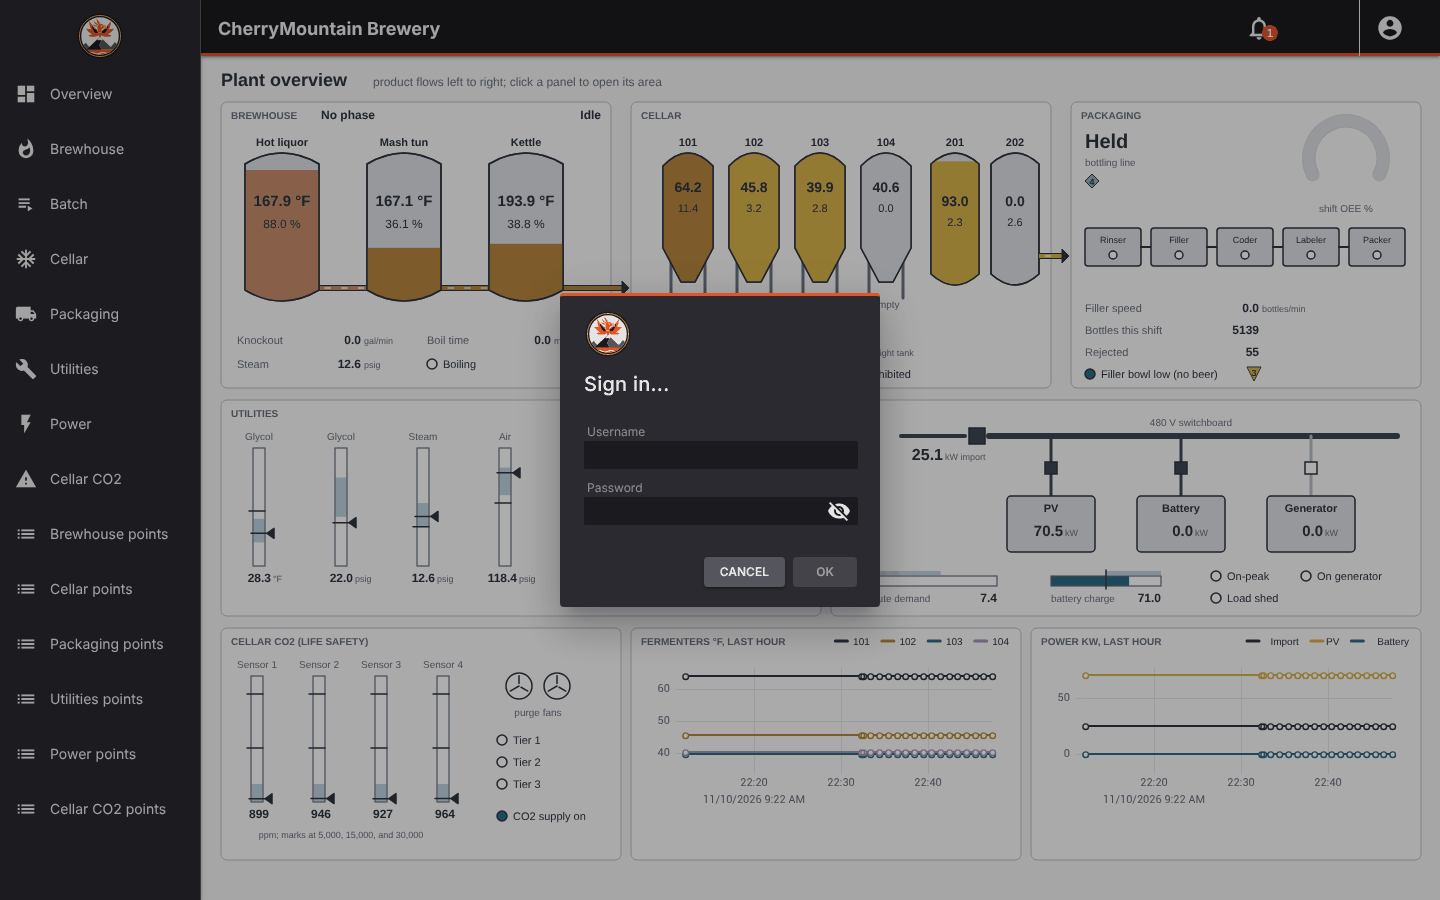
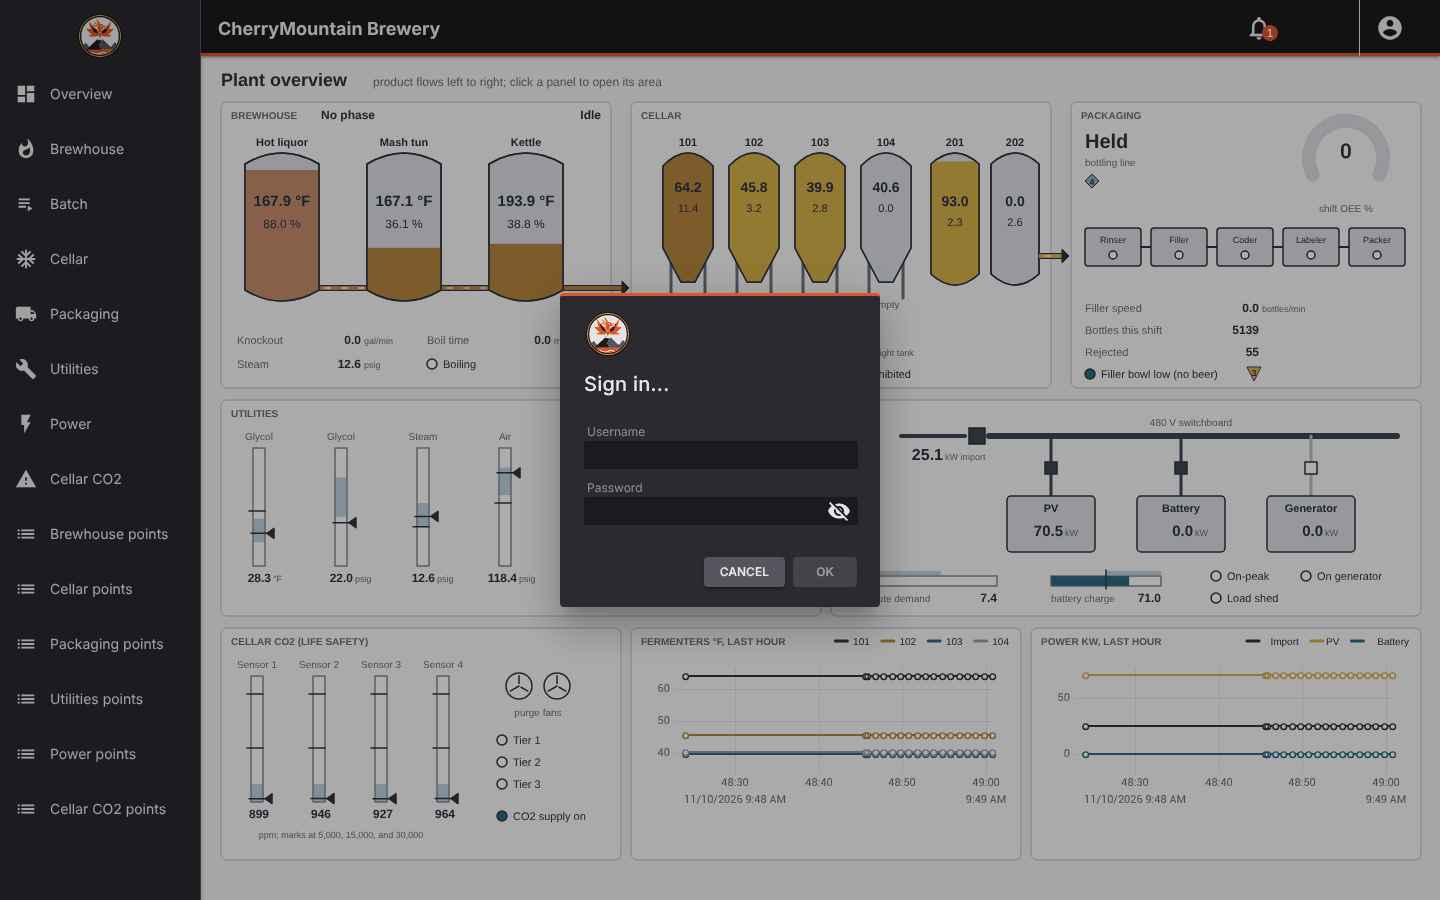
docs(cherrymountain): retake the FUXA pictures with the OEE dial number
The OEE dial on the Overview and Packaging screens now shows its number, and
the Power screen draws the ATS flag once, so the FUXA and HMI pictures are
retaken with capture_all.sh. The captions read the dial's value off the
pictures (0 when the line is Held, 99 when it runs) and the brew captions give
the phase states the new pictures show.

diff --git a/cherrymountain-brewery/README.md b/cherrymountain-brewery/README.md
@@ -565,10 +565,10 @@ brewhouse vessels, the four fermenters and two bright tanks, and the bottling li
 below are the utilities on scales, the power one-line, the cellar's CO₂ sensors, and
 two trends. The values come from the offline simulation. The brewhouse is idle (the
 phase bar's "No phase" is PLC state, which reads 0). The bottling line is Held with an
-empty OEE arc, because BBT-202 is empty (0.0 %): the filler's low-bowl lamp is lit,
+shift OEE of 0, because BBT-202 is empty (0.0 %): the filler's low-bowl lamp is lit,
 the yellow flag beside it is the alarm the bell counts, and the line state, bottle
 counts, and OEE are staged from the machines by the rules of `plc-packaging`. The
-OEE dial draws an arc and no number.
+OEE dial reads 0 with an empty arc.
 
 ![The Brewhouse screen](docs/examples/fuxa-scada-brewhouse.png)
 
@@ -591,7 +591,7 @@ up. "CIP permitted" is lit, which the capture stages from the transfer pump bein
 ![The Packaging screen](docs/examples/fuxa-scada-packaging.png)
 
 The **Packaging** screen at 08:00, with the line running (served over S7 from the
-packaging federate). The line is Execute, and the OEE arc is filled to about 99 %: the
+packaging federate). The line is Execute, and the OEE dial reads 99 and its arc is nearly full: the
 filler runs at 30.0 of 30 bottles/min and 28 of 2,894 bottles are rejected. Each machine
 shows its state, speed, counts, and jam lamp, and the backed-up eyes of conveyors 1
 and 3 are lit. The keg line is Execute, with the wash water at 160 °F and its heater on. The
@@ -649,7 +649,7 @@ The brewhouse station: the range's `cm-kiosk` script ran Chromium in kiosk mode 
 1440x900 display, opened the Brewhouse screen, and signed in as `operator` by itself
 (the name is beside the account icon). The batch engine was brewing against the tests'
 port of the brewhouse PLC: a request was raised about half a minute earlier, and the
-phase bar is on Heat liquor, which reads Complete. The vessel values are the plant's at
+phase bar is on Heat liquor, which reads Idle. The vessel values are the plant's at
 11:00 (see [Scenarios](#scenarios)). There is no window manager or desktop around it,
 so this is the browser only, not the VM's screen.
 
@@ -690,8 +690,8 @@ events only. The same simulated moment feeds cm-viz and the FUXA picture beside 
 
 The **Brewhouse** screen during a brew, from the same run as the Batch picture below.
 The batch engine takes a brew through the brewhouse PLC's handshake, and the phase bar
-is on Heat liquor, which reads Complete, with the batch number at 1 and one request
-accepted. The step in the phase is 0. The vessel values are the plant's at 11:00, not
+is on Heat liquor, which reads Running, with the batch number at 1 and one request
+accepted. The step in the phase is 1. The vessel values are the plant's at 11:00, not
 a brew's, and do not follow the phase: the mash tun is at 167.1 °F with its setpoint at
 152.0 °F.
 
@@ -699,7 +699,7 @@ a brew's, and do not follow the phase: the mash tun is at 167.1 °F with its set
 
 The **Batch** view while the real batch engine script, running in FUXA, takes a brew
 through the PLC handshake: batch FOP-0001 is Running in HLT_HEAT, phase 2 of 11, and
-the PLC's phase state is 5 (Complete). The brewhouse PLC was the tests' port of its
+the PLC's phase state is 5 (Complete), a few seconds after the Brewhouse picture. The brewhouse PLC was the tests' port of its
 program (`fuxa/tests/brewhouse_sim.mjs`) with 4-second phases, and the panel's request
 counter was raised once, as the event does. A phase takes the engine about 18 s, and the
 picture was taken about 25 s after the request. The times are the machine's wall clock.
@@ -780,8 +780,8 @@ lamps are lit, each with a diamond flag (low priority), and both machines are He
 (state 11) with speed 0 and stop reason 10. The rinser, date coder, and case packer are
 Suspended (state 5) behind them. The line is Held, with a diamond flag beside its state
 that the capture stages without the alarm's 10-minute delay. Its stop reason is 2, the
-filler, which is the first machine in line order that is jammed or Held. The OEE arc is
-empty because the filler's speed is 0, and the conveyors' run commands are 0.
+filler, which is the first machine in line order that is jammed or Held. The OEE dial
+reads 0 because the filler's speed is 0, and the conveyors' run commands are 0.
 
 ![The packaging HMI station during the jam](docs/examples/hmi-packaging-station-jam.png)
 
